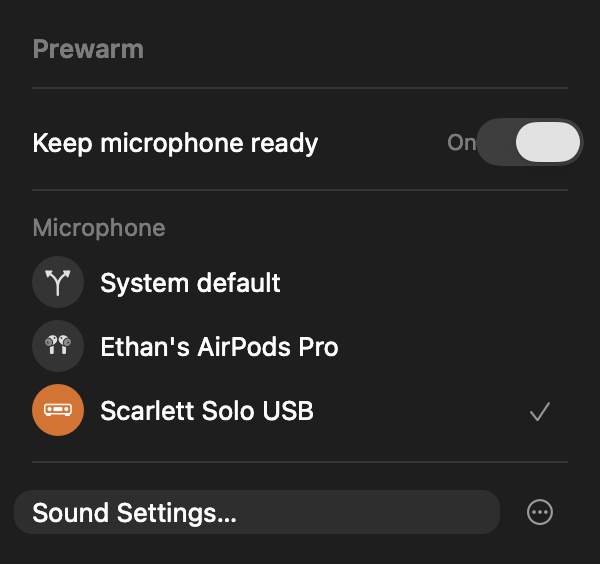
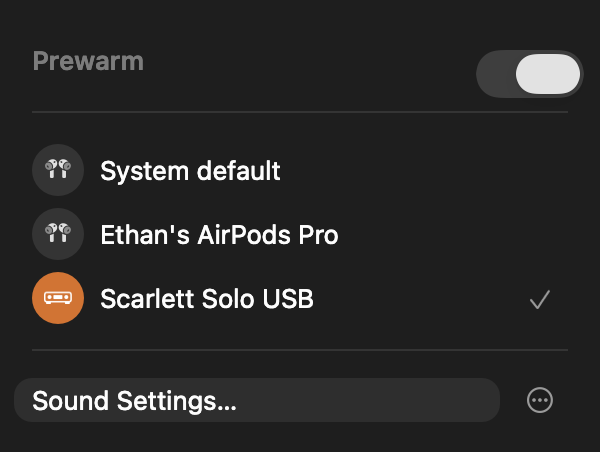
refactor(ui): compact warming controls into panel header

diff --git a/Sources/Prewarm/PrewarmPanel.swift b/Sources/Prewarm/PrewarmPanel.swift
@@ -115,13 +115,10 @@ final class PrewarmPanel: NSViewController {
     var addLoginItems: ((NSMenu) -> Void)?
     private let warmingState = WarmingState()
     private lazy var warmingSwitch = NSHostingView(rootView: WarmingSwitch(model: warmingState))
-    private let toggleState = NSTextField(labelWithString: "Off")
     private let deviceStack = NSStackView()
     private var contentStack: NSStackView!
     private let status = NSTextField(labelWithString: "Off")
     private var lastRows: [String] = []
-    private var enabled = false
-    private var selection = ""
 
     override func loadView() {
         let content = NSView()
@@ -129,26 +126,16 @@ final class PrewarmPanel: NSViewController {
         let header = NSTextField(labelWithString: "Prewarm")
         header.font = .systemFont(ofSize: 13, weight: .semibold)
         header.textColor = .secondaryLabelColor
-        let headerRow = NSStackView(views: [header, NSView()])
-        headerRow.orientation = .horizontal
-        let label = NSTextField(labelWithString: "Keep microphone ready")
-        label.font = .systemFont(ofSize: 13)
         warmingState.onChange = { [weak self] _ in self?.onToggle?() }
         warmingSwitch.setAccessibilityLabel("Keep microphone ready")
-        toggleState.font = .systemFont(ofSize: 11)
-        toggleState.textColor = .secondaryLabelColor
-        let row = NSView()
-        for child in [label, toggleState, warmingSwitch] { child.translatesAutoresizingMaskIntoConstraints = false; row.addSubview(child) }
+        let headerRow = NSView()
+        for child in [header, warmingSwitch] { child.translatesAutoresizingMaskIntoConstraints = false; headerRow.addSubview(child) }
         NSLayoutConstraint.activate([
-            row.heightAnchor.constraint(equalToConstant: 28),
-            label.leadingAnchor.constraint(equalTo: row.leadingAnchor), label.centerYAnchor.constraint(equalTo: row.centerYAnchor),
-            toggleState.trailingAnchor.constraint(equalTo: warmingSwitch.leadingAnchor, constant: -7), toggleState.centerYAnchor.constraint(equalTo: row.centerYAnchor),
+            headerRow.heightAnchor.constraint(equalToConstant: 28),
+            header.leadingAnchor.constraint(equalTo: headerRow.leadingAnchor), header.centerYAnchor.constraint(equalTo: headerRow.centerYAnchor),
             warmingSwitch.widthAnchor.constraint(equalToConstant: 38), warmingSwitch.heightAnchor.constraint(equalToConstant: 24),
-            warmingSwitch.trailingAnchor.constraint(equalTo: row.trailingAnchor), warmingSwitch.centerYAnchor.constraint(equalTo: row.centerYAnchor)
+            warmingSwitch.trailingAnchor.constraint(equalTo: headerRow.trailingAnchor), warmingSwitch.centerYAnchor.constraint(equalTo: headerRow.centerYAnchor)
         ])
-        let micHeader = NSTextField(labelWithString: "Microphone")
-        micHeader.font = .systemFont(ofSize: 12, weight: .regular)
-        micHeader.textColor = .secondaryLabelColor
         deviceStack.orientation = .vertical
         deviceStack.distribution = .fill
         deviceStack.setHuggingPriority(.required, for: .vertical)
@@ -160,7 +147,7 @@ final class PrewarmPanel: NSViewController {
         more.isBordered = false
         more.contentTintColor = .secondaryLabelColor
         more.setAccessibilityLabel("More")
-        more.toolTip = "About, microphone privacy, and Quit. Audio is never saved or sent."
+        more.toolTip = "Login settings, About, microphone privacy, and Quit."
         let sound = HoverButton(frame: .zero)
         sound.title = ""
         sound.target = self
@@ -192,7 +179,7 @@ final class PrewarmPanel: NSViewController {
         more.widthAnchor.constraint(equalToConstant: 28).isActive = true
         more.heightAnchor.constraint(equalToConstant: 28).isActive = true
         let headerDivider = separator()
-        let stack = NSStackView(views: [headerRow, headerDivider, row, separator(), micHeader, deviceStack, separator(), footer])
+        let stack = NSStackView(views: [headerRow, headerDivider, deviceStack, separator(), footer])
         contentStack = stack
         stack.orientation = .vertical
         stack.distribution = .fill
@@ -201,13 +188,10 @@ final class PrewarmPanel: NSViewController {
         stack.spacing = 10
         stack.setCustomSpacing(12, after: headerRow)
         stack.setCustomSpacing(12, after: headerDivider)
-        stack.setCustomSpacing(4, after: micHeader)
         stack.translatesAutoresizingMaskIntoConstraints = false
         content.addSubview(stack)
-        for wide in [headerRow, row, micHeader] {
-            wide.translatesAutoresizingMaskIntoConstraints = false
-            wide.widthAnchor.constraint(equalTo: stack.widthAnchor, constant: -18).isActive = true
-        }
+        headerRow.translatesAutoresizingMaskIntoConstraints = false
+        headerRow.widthAnchor.constraint(equalTo: stack.widthAnchor, constant: -18).isActive = true
         deviceStack.widthAnchor.constraint(equalTo: stack.widthAnchor).isActive = true
         footer.widthAnchor.constraint(equalTo: stack.widthAnchor).isActive = true
         for divider in stack.arrangedSubviews.compactMap({ $0 as? NSBox }) { divider.widthAnchor.constraint(equalTo: stack.widthAnchor, constant: -18).isActive = true }
@@ -233,11 +217,8 @@ final class PrewarmPanel: NSViewController {
     }
     func update(state: CaptureState?, enabled: Bool, selection: String, missingName: String, missingKind: String) {
         loadViewIfNeeded()
-        self.enabled = enabled
-        self.selection = selection
         defer { updatePreferredSize() }
         warmingState.isOn = enabled
-        toggleState.stringValue = enabled ? "On" : "Off"
         status.toolTip = state?.message
         status.setAccessibilityHelp(state?.message)
         if !enabled { status.stringValue = "Off" }

diff --git a/scripts/AppearanceReview/main.swift b/scripts/AppearanceReview/main.swift
@@ -1,11 +1,12 @@
 import AppKit
 import Foundation
 import PrewarmCore
+import CoreServices
 let root = CommandLine.arguments[1]
 let app = NSApplication.shared
 app.setActivationPolicy(.prohibited)
 app.applicationIconImage = NSImage(contentsOfFile: "\(root)/assets/Prewarm.icns")!
-let controller = AboutController(info: ["CFBundleShortVersionString": "0.1.2", "CFBundleVersion": "13"])
+let controller = AboutController(info: ["CFBundleShortVersionString": "0.1.2", "CFBundleVersion": "14"])
 let window = PrewarmWindow(contentRect: NSRect(x: 0, y: 0, width: 320, height: 460), styleMask: [.titled, .closable, .fullSizeContentView], backing: .buffered, defer: false)
 window.contentViewController = controller
 for (name, appearanceName) in [("light", NSAppearance.Name.aqua), ("dark", NSAppearance.Name.darkAqua)] {
@@ -21,7 +22,7 @@ for (name, appearanceName) in [("light", NSAppearance.Name.aqua), ("dark", NSApp
     print("About \(name): fit=\(size), inherited=\(controller.view.effectiveAppearance.name.rawValue); offscreen fixture, not live glass backdrop")
 }
 let devices = [Microphone(uid: "scarlett", name: "Scarlett Solo USB", transport: .usb, manufacturer: "Focusrite"), Microphone(uid: "airpods", name: "Ethan's AirPods Pro", transport: .bluetooth)]
-let state = CaptureState(processID: 0, updatedAt: Date(), message: "Warming", enabled: true, selection: "scarlett", targetUID: "scarlett", targetName: "Scarlett Solo USB", running: true, sampleAge: 0, available: devices)
+let state = CaptureState(processID: 0, updatedAt: Date(), message: "Warming", enabled: true, selection: "scarlett", targetUID: "scarlett", targetName: "Scarlett Solo USB", running: true, sampleAge: 0, available: devices, systemDefaultUID: "airpods")
 let panelContent = PrewarmPanel()
 panelContent.update(state: state, enabled: true, selection: "scarlett", missingName: "Scarlett Solo USB", missingKind: "interface")
 let host = PrewarmPanelHost(content: panelContent)
@@ -39,14 +40,14 @@ let children = descendants(panelContent.view)
 let deviceRow = children.compactMap { $0 as? NSButton }.first { $0.accessibilityLabel() == "System default" }!
 let soundButton = children.compactMap { $0 as? NSButton }.first { $0.accessibilityLabel() == "Sound Settings…" }!
 let moreButton = children.compactMap { $0 as? NSButton }.first { $0.accessibilityLabel() == "More" }!
-let section = children.compactMap { $0 as? NSTextField }.first { $0.stringValue == "Microphone" }!
+let section = children.compactMap { $0 as? NSTextField }.first { $0.stringValue == "Prewarm" }!
 let headerRect = section.convert(section.alignmentRect(forFrame: section.bounds), to: panelContent.view)
 let rowRect = deviceRow.convert(deviceRow.bounds, to: panelContent.view)
 let badge = deviceRow.subviews[0]
 precondition(deviceRow.bounds.height == 32 && badge.frame.size == NSSize(width: 26, height: 26))
 precondition(badge.frame.minX == 9 && badge.frame.minY == 3)
 precondition(badge.convert(badge.bounds, to: panelContent.view).minX == headerRect.minX)
-precondition(rowRect.minX == headerRect.minX - 9 && rowRect.maxX == headerRect.maxX + 9)
+precondition(rowRect.minX == headerRect.minX - 9 && rowRect.maxX == panelContent.view.bounds.maxX - headerRect.minX + 9)
 let hoverHit = panelContent.view.hitTest(deviceRow.convert(NSPoint(x: 1, y: 16), to: panelContent.view))
 precondition(hoverHit === deviceRow, "Expanded padding must be part of the actual native button hit area")
 let soundRect = soundButton.convert(soundButton.bounds, to: panelContent.view)
@@ -86,3 +87,15 @@ if #available(macOS 26.0, *), let glass = panelWindow.contentView as? NSGlassEff
     precondition(glass.cornerRadius == 0)
     print("NSPanel has one native glass host; inner radius=0, native window owns rounded boundary")
 }
+func launchEvent(id: AEEventID = AEEventID(kAEOpenApplication), reason: OSType?, eventClass: AEEventClass = AEEventClass(kCoreEventClass)) -> NSAppleEventDescriptor {
+    let event = NSAppleEventDescriptor(eventClass: eventClass, eventID: id, targetDescriptor: nil, returnID: AEReturnID(kAutoGenerateReturnID), transactionID: AETransactionID(kAnyTransactionID))
+    if let reason { event.setParam(NSAppleEventDescriptor(enumCode: reason), forKeyword: AEKeyword(keyAEPropData)) }
+    return event
+}
+precondition(LoginSettings.isLoginLaunch(launchEvent(reason: OSType(keyAELaunchedAsLogInItem))))
+precondition(!LoginSettings.isLoginLaunch(nil))
+precondition(!LoginSettings.isLoginLaunch(launchEvent(reason: nil)))
+precondition(!LoginSettings.isLoginLaunch(launchEvent(reason: OSType(keyAELaunchedAsServiceItem))))
+precondition(!LoginSettings.isLoginLaunch(launchEvent(id: AEEventID(kAEReopenApplication), reason: OSType(keyAELaunchedAsLogInItem))))
+precondition(!LoginSettings.isLoginLaunch(launchEvent(reason: OSType(keyAELaunchedAsLogInItem), eventClass: 0)))
+print("Login reason descriptor checks passed; no SM registration, defaults mutation or real login attempted.")

diff --git a/README.md b/README.md
@@ -1,10 +1,10 @@
 # Prewarm
 
-Prewarm 0.1.2 (build 13), by Ethan Proia.
+Prewarm 0.1.2 (build 14), by Ethan Proia.
 
 A tiny macOS menu-bar utility that keeps your microphone warm by keeping its input stream active. It immediately discards audio samples; it does not record, analyze, save, or transmit audio. No third-party dependencies or network calls.
 
-Click the menu-bar icon and select **System default** under Microphone to follow the current macOS input, or choose a specific microphone. Device icons distinguish known AirPods models, headsets, microphones, interfaces, virtual/aggregate devices and generic inputs using detected transport plus explicit product/model hints. Ambiguous USB devices use a connector; USB transport cannot identify the downstream XLR microphone. An explicit choice is pinned by device UID: reconnecting AirPods or changing the system default does not switch it. If the selected microphone disconnects, Prewarm waits instead of opening another mic. **Keep microphone ready** enables or disables warming, with explicit On/Off state; disabling releases the input. State and selection persist across relaunches; first launch is off. A native floating NSPanel opens below the menu-bar icon or by reopening the app, and dismisses on an outside click or Escape. It has no popover pointer or close control. The system window owns its corners and one public native material hosts the prior controls; device-row hover remains minimal AppKit drawing. Sound Settings is directly accessible; the native More menu contains About, Microphone Privacy and Quit.
+Click the menu-bar icon and select **System default** under Microphone to follow the current macOS input, or choose a specific microphone. Device icons distinguish known AirPods models, headsets, microphones, interfaces, virtual/aggregate devices and generic inputs using detected transport plus explicit product/model hints. Ambiguous USB devices use a connector; USB transport cannot identify the downstream XLR microphone. An explicit choice is pinned by device UID: reconnecting AirPods or changing the system default does not switch it. If the selected microphone disconnects, Prewarm waits instead of opening another mic. The native switch opposite **Prewarm** enables or disables warming; disabling releases the input. Its accessible label is Keep microphone ready. System default shows the current macOS default input's icon, even while a different microphone is explicitly selected, with a plain microphone fallback. State and selection persist across relaunches; first launch is off. A native floating NSPanel opens below the menu-bar icon or by reopening the app, and dismisses on an outside click or Escape. It has no popover pointer or close control. The system window owns its corners and one public native material hosts the prior controls; device-row hover remains minimal AppKit drawing. Sound Settings is directly accessible; the native More menu contains About, Microphone Privacy and Quit.
 
 macOS 14 or later; Xcode command-line tools with Swift 5.9 or later.
 
@@ -20,13 +20,17 @@ The local build is ad-hoc signed because no signing identity is available. The c
 
 ## Recovery and privacy
 
+More contains separate **Open at Login** and **Enable at Login** settings, initially off. Open at Login uses macOS ServiceManagement and changes registration only when clicked; its checkmark reflects the actual system status. Enable at Login is available only while opening at login is active. A confirmed login launch uses this warming preference for that session, preserving the saved normal/manual enabled preference. Manual relaunches still restore the saved warming state. Registration failures and required approval offer a native route to Login Items settings. No login registration is performed at installation or startup.
+
+Login launch detection reads Apple's documented [launch Apple event marker](https://developer.apple.com/documentation/coreservices/apple_events/1556410-launch_apple_event_constants) synchronously in applicationDidFinishLaunching; this lifecycle use is also demonstrated by the maintained [LaunchAtLogin implementation](https://github.com/sindresorhus/LaunchAtLogin-Modern/blob/main/Sources/LaunchAtLogin/LaunchAtLogin.swift) and [Electron delegate](https://github.com/electron/electron/blob/main/shell/browser/mac/electron_application_delegate.mm). Registration uses [SMAppService.mainApp](https://developer.apple.com/documentation/servicemanagement/smappservice/mainapp). Synthetic launch descriptors and startup-policy tests do not perform a real login or change OS registration; actual login behavior remains a runtime acceptance check.
+
 Capture setup, callbacks, and teardown run off the UI thread. A lightweight two-second check detects device/default changes and stale capture. It restarts only when the actual selected input changes, stops, or fails to deliver samples for ten seconds. Failed starts stay retryable. If a macOS capture API itself hangs indefinitely, that serial queue cannot process recovery or off until the API returns; quitting the process releases its audio resources. Recovery is not hang-proof. Warming pauses for system sleep and resumes after wake; the upstream idle-sleep allowance is retained. The app does not change the device's sample rate or system default.
 
 Status metadata only (device names/UIDs, state and latest sample age) is written to `~/Library/Caches/com.ethan.Prewarm/status.json` to aid verification. There are no audio bytes or transcripts in it. Preferences are in the standard `com.ethan.Prewarm` defaults domain. Quit releases capture through process exit. No PID files, process killing, login daemon, or signal-handler object destruction.
 
 ## Verify with the actual microphone
 
-1. Close QuickTime's audio preview and other continuously capturing apps. Select Scarlett in Prewarm and in dictation, then enable warming. Confirm On is shown; the metadata should show `running: true` with a recent `sampleAge`.
+1. Close QuickTime's audio preview and other continuously capturing apps. Select Scarlett in Prewarm and in dictation, then enable warming. Confirm the switch is on; the metadata should show `running: true` with a recent `sampleAge`.
 2. Trigger Wispr and Willow and speak immediately. Compare opening audio against Prewarm off, using the same device and sample rate. Repeat at 48 and 192 kHz.
 3. Reconnect AirPods or change the system default while Scarlett is explicitly selected. Prewarm must remain on Scarlett. Selecting System default should follow macOS instead.
 4. Disconnect Scarlett: Prewarm must wait without opening another mic. Reconnect: warming must recover. Test sleep/wake, persisted selection after relaunch, and off releasing capture.

diff --git a/assets/icon-review.md b/assets/icon-review.md
@@ -69,3 +69,7 @@ Microphone alone uses12pt regular secondary text from the Mic Mode reference; th
 Build 13 preserves both internal12pt header gaps; the user clarified that the unwanted gap was external. The external top anchor returns to the actual status-button bounds converted to screen coordinates,6pt below its lower edge, capped by visibleFrame. The checkmark now has the exact global horizontal center of More (23pt from the expanded row's right edge), verified in the native layout fixture.
 
 Status selection now uses a public native toggle-type NSStatusBarButton with showsStateBy=.changeBackgroundCellMask and persistent on/off state, plus the native cell highlighted flag on show/hide. Mouse tracking may clear its transient highlight flag, so the selected state carries the background. Async reassertion and capture-refresh highlight calls are removed; no timer or custom background is added. Source/build correctness does not prove the live menu-bar rendering: root must inspect after the real mouse action returns and again after500ms, and confirm clearing after outside click/Escape. Capture and primary panel styling are unchanged.
+
+Build 14 simplifies the main panel to Prewarm with a native accessible switch in the header, one divider, aligned device rows and the existing footer. The separate warming row, visible On/Off text and Microphone heading are removed. Native frame/content fit226pt with three choices; hover hit areas and check/More alignment remain. System default's symbol now follows the independent current macOS defaultUID metadata, never the pinned capture target; absent/unknown defaults use a plain microphone. The existing read-only CoreAudio default lookup is sampled once per reconciliation, with no new capture operations or restart criteria.
+
+More adds default-off Open at Login and Enable at Login native checked items. SMAppService registration/unregistration happens only in the first item's click handler, with system status reflected and actionable approval/error notices. Enable at Login is disabled until Open at Login is active. Documented Apple-event reason detection is synchronous at applicationDidFinishLaunching; login session warming is separate from normal saved state and first-run UI is suppressed on a confirmed login. Core tests exercise manual/login combinations and default-vs-pinned icon resolution; synthetic descriptors cover nil/missing/service/reopen/wrong-class reasons. No test or fixture registers a login item, mutates preferences, starts capture or logs out. Actual registration and login are not claimed tested.
